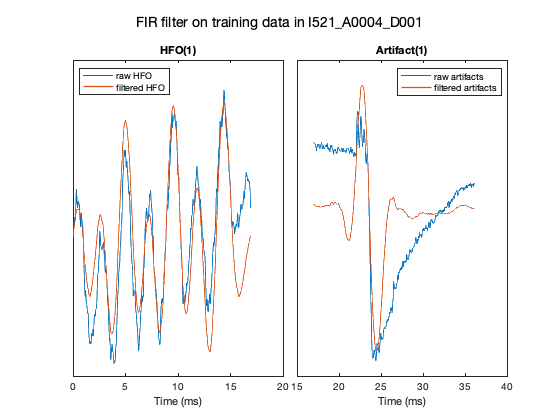
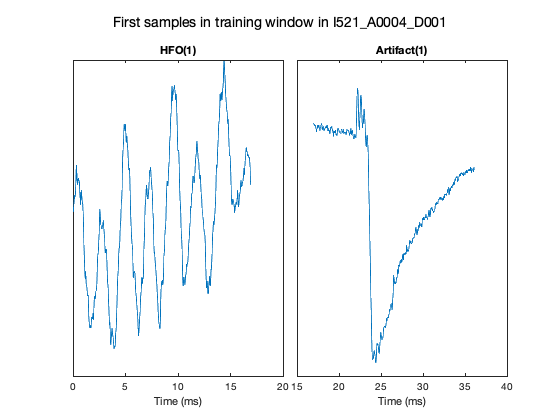
first draft

diff --git a/hw4/jalp_hw4.tex b/hw4/jalp_hw4.tex
@@ -26,8 +26,7 @@
 \\{\normalsize Spring 2021}} \author{58 points} \date{Due: Tuesday,
 2/23/2021 10:00pm} \maketitle \textbf{Objective:} HFO detection and
 cross-validation 
- \begin{center} \author{Jal Mahendra Panchal \\
-  \normalsize Collaborators: COLLABORATORS HERE \\}
+ \begin{center} \author{Jal Mahendra Panchal}
 \end{center}
 
 
@@ -92,6 +91,12 @@ datestr(seconds(duration_in_sec_hfo),'HH:MM:SS:FFF')
 \end{lstlisting}
 
 \color{lightgray} \begin{lstlisting}IEEGSETUP: Adding 'ieeg-matlab.jar' to dynamic classpath
+Warning: Objects of
+edu/upenn/cis/db/mefview/services/TimeSeriesDetails
+class exist - not clearing java 
+Warning: Objects of
+edu/upenn/cis/db/mefview/services/TimeSeriesInterface
+class exist - not clearing java 
 IEEGSETUP: Found log4j on Java classpath.
 URL: https://www.ieeg.org/services
 Client user: jalpanchal
@@ -102,6 +107,9 @@ ans =
     '00:00:09:466'
 
 \end{lstlisting} \color{black}
+
+
+\includegraphics [width=5in]{jalp_hw4_01.png}
 \begin{lstlisting}
 %Get annotations
 dataset = session_hfo.data;
@@ -183,7 +191,7 @@ suptitle('First samples in training window in I521\_A0004\_D001')
 \end{lstlisting}
 
 
-\includegraphics [width=5in]{jalp_hw4_01.png}
+\includegraphics [width=5in]{jalp_hw4_02.png}
 
     \item Using the \texttt{fdatool} in MATLAB, build an FIR
     bandpass filter of the equiripple type of order 100.
@@ -254,7 +262,7 @@ suptitle('FIR filter on training data in I521\_A0004\_D001')
 \end{lstlisting}
 
 
-\includegraphics [width=5in]{jalp_hw4_02.png}
+\includegraphics [width=5in]{jalp_hw4_03.png}
 
     \item Speculate how processing the data using Staba's method may
     have erroneously led to a false HFO detection (3 pts) \\
@@ -262,7 +270,7 @@ suptitle('FIR filter on training data in I521\_A0004\_D001')
 
 \textbf{Answer 1.5:}
 
-The processing in Staba ..
+The processing of data using Staba's method involves using a equiripple bandpass filter. From the image of the filtered artifacts signal above we see that it the original noisy artifact signal has been converted to a sinosoidal signal. Depending on how the HFO detection algorithms work, its peak and profile can very easily be mistaken for a HFO. The filtering of high frequencies and low frequenncy variations and possibly the impact of the filter windows is amplifying mid frequency signals in the filtered artifact signal which looks similar in profile as the valid HFO signals. These reason could cause Staba's method to erroneously lead to false HFO detection.\ensuremath{\backslash}\ensuremath{\backslash}
 
 \end{enumerate}
 \section{Defining Features for HFOs (9 pts)} In this section we will
@@ -306,9 +314,6 @@ for i = 2:size(allEvents,2)
         session_hfo.data.getvalues(allEvents(i).start, allEvents(i).stop-allEvents(i).start, 1) }];
 end
 \end{lstlisting}
-
-
-\includegraphics [width=5in]{jalp_hw4_03.png}
 \begin{lstlisting}
 %Function definition
 %LineLength
@@ -797,6 +802,7 @@ ylim([-3,5])
 
 \textbf{Answer 3.6:}
 
+In the three plots we can se the varying levels of agression of fitting the data. The KNN classifier with k=1 looks the most agressive and overfit where it tries to get regions for even single points. This overfitting has caused it to wrongly classify the most number of testing samples. $\\$ The SVN is the next most agressive classifier where it has tried to reach for most possible points in one closed boundary. We can visually also see why it has the least training error. $\\$. The Logistic regression classifier seems like underfit where several training and testing samples are classified incorrectly.
 
 \end{enumerate}
 \section{Cross-Validation (17 pts)} In this section, you will
@@ -828,7 +834,7 @@ training data).
 
 \begin{lstlisting}
 %creating a randon order of training sample indices
-% rand_ord = randperm(200);
+rand_ord = randperm(200);
 %reshaping it in to a 10 cell containing 20 unique indices
 rand_ord = reshape(rand_ord, 10, []);
 knn_folds = num2cell(rand_ord, 2);
@@ -836,10 +842,11 @@ knn_folds = num2cell(rand_ord, 2);
 number_of_unique_indices = length(unique([knn_folds{:}]))
 \end{lstlisting}
 
-\color{lightgray} \begin{lstlisting}Unrecognized function or variable 'rand_ord'.
+\color{lightgray} \begin{lstlisting}
+number_of_unique_indices =
 
-Error in jalp_hw4 (line 819)
-rand_ord = reshape(rand_ord, 10, []);
+   200
+
 \end{lstlisting} \color{black}
 
  \item Train a new $k$-NN model (still using the default parameters)
@@ -886,6 +893,13 @@ The average validation error for all folds is
 \begin{lstlisting}
 avg_val_error = mean([knn_folds{:,2}])
 \end{lstlisting}
+
+\color{lightgray} \begin{lstlisting}
+avg_val_error =
+
+    0.1800
+
+\end{lstlisting} \color{black}
 
 \item How does this error compare (lower,
    higher, the same?) to the error you found in question 3.3? Does
@@ -965,6 +979,9 @@ ylabel('Percentage error')
 legend('Training error', 'Validation error')
 \end{lstlisting}
 
+
+\includegraphics [width=5in]{jalp_hw4_08.png}
+
 \item What is the optimal $k$ value and its training and testing error?
 (1 pts) \\
 
@@ -1003,6 +1020,13 @@ Ypred_test = predict(knn, X_test);
 
 test_error_opt = size(find(Ypred_test~=Y_test),1)/size(Y_test,1)
 \end{lstlisting}
+
+\color{lightgray} \begin{lstlisting}
+test_error_opt =
+
+    0.1143
+
+\end{lstlisting} \color{black}
 With a $k$ of 29, the testing error is 11.43\%
 
 \item How does this

diff --git a/hw4/jalp_hw4.m b/hw4/jalp_hw4.m
@@ -5,8 +5,7 @@
 % cross-validation </latex>
 
 %% 
-% <latex> \begin{center} \author{Jal Mahendra Panchal \\
-%   \normalsize Collaborators: COLLABORATORS HERE \\}
+% <latex> \begin{center} \author{Jal Mahendra Panchal}
 % \end{center} 
 % </latex>
 
@@ -243,7 +242,16 @@ suptitle('FIR filter on training data in I521\_A0004\_D001')
 % </latex>
 
 %%
-% The processing in Staba ..
+% The processing of data using Staba's method involves using a equiripple
+% bandpass filter. From the image of the filtered artifacts signal above we
+% see that it the original noisy artifact signal has been converted to a sinosoidal
+% signal. Depending on how the HFO detection algorithms work, its peak and
+% profile can very easily be mistaken for a HFO. The filtering of high
+% frequencies and low frequenncy variations and possibly the impact of the
+% filter windows is amplifying mid frequency signals in the filtered
+% artifact signal which looks similar in profile as the valid HFO signals.
+% These reason could cause Staba's method to erroneously lead to false HFO
+% detection.\\
 
 %% 
 % <latex>
